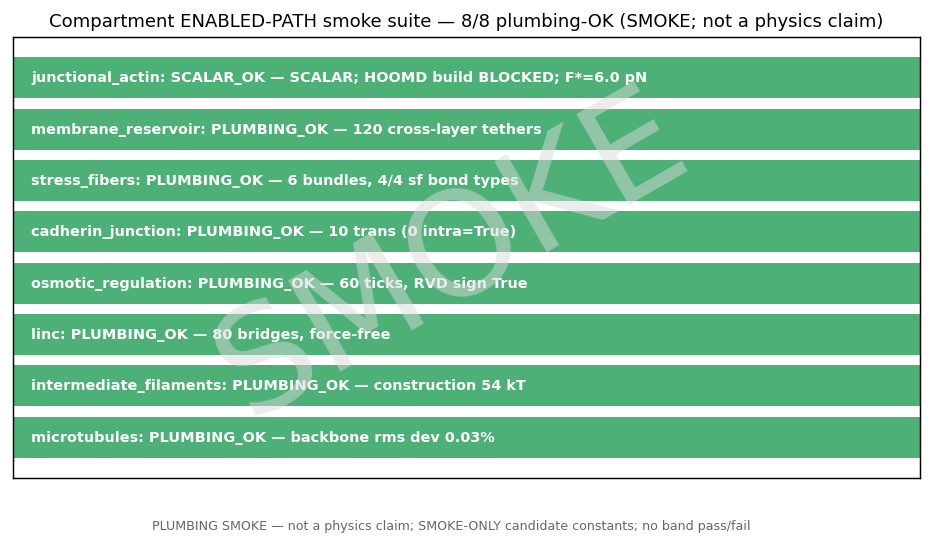
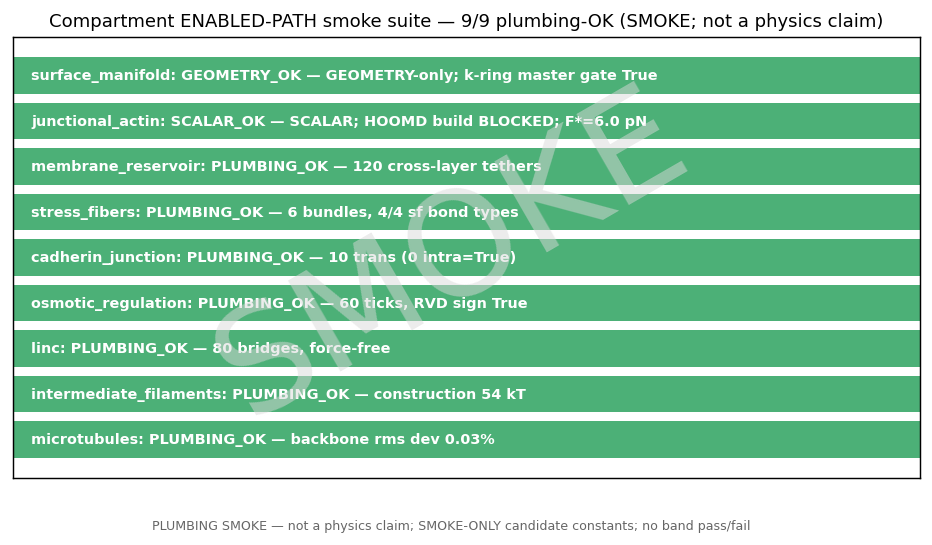
H.7 smoke: surface_manifold GEOMETRY-only grid-invariance (GEOMETRY_OK)
Geometry-only harness (NO force/bond/particle added; cross-checked vs registry geometry_only invariant) across icosphere subdivisions 0-4: (1) total area converges to 4piR^2 as O(1/n_tri) (0.24->0.001 rel err), (2) broad-phase home-patch normal aligns with the radial direction, error 17.5deg->1.15deg as the mesh refines, (3) the k-ring reach-coverage MASTER GATE holds coverage==1.0 at EVERY resolution -- the DERIVED kring_for_reach adapts (k 4->8) so the geodesic ring always covers the physical reach ball, the grid-invariance the registry requires before any manifold force is sanctioned (that force stays PI-gated/out of scope). Folded into run_all (9/9).

Changed region(s): [[0.0, 0.1248, 0.9957, 0.8422], [0.4979, 0.0312, 0.529, 0.0624]]

diff --git a/ffn_sim/scripts/compartment_smoke/surface_manifold.py b/ffn_sim/scripts/compartment_smoke/surface_manifold.py
@@ -1,0 +1,192 @@
+"""GEOMETRY-ONLY grid-invariance harness — surface manifold (PLUMBING).
+
+The surface_manifold compartment is GEOMETRY-ONLY (broad-phase + local frames +
+diagnostics): it must add ZERO force-bearing edges/particles. This harness builds
+icospheres across mesh resolutions and checks the three things that must hold
+before ANY manifold force could ever be enabled:
+
+  1. AREA CONVERGENCE — total flat-triangle area → 4πR² as the mesh refines.
+  2. BROAD-PHASE FRAME CONVERGENCE — a shell point's home-patch normal aligns
+     with its radial direction; the angular error → 0 as the mesh refines.
+  3. k-RING REACH-COVERAGE MASTER GATE — the DERIVED kring_for_reach(reach)
+     produces a geodesic ring that COVERS every triangle within `reach`
+     (coverage == 1.0) at EVERY resolution — the grid-invariance the registry
+     requires before a manifold force is sanctioned.
+
+NO force is added (geometry-only); the harness also cross-checks the registry's
+geometry-only invariant. NOT a physics claim; figures carry a SMOKE watermark.
+
+Run:  python ffn_sim/scripts/compartment_smoke/surface_manifold.py
+"""
+
+from __future__ import annotations
+
+import sys
+from pathlib import Path
+
+_HERE = Path(__file__).resolve()
+for _p in (_HERE.parents[3], _HERE.parents[0]):
+    if str(_p) not in sys.path:
+        sys.path.insert(0, str(_p))
+
+import numpy as np
+import matplotlib
+matplotlib.use("Agg")
+import matplotlib.pyplot as plt
+
+import _smoke_common as sc
+from ffn_sim.cortex.surface_manifold import SurfaceManifold
+from ffn_sim.cell.compartment_registry import REGISTRY
+
+R_CELL = 7.5e-6          # m  MCF7 (Wagner 2011)
+SUBDIVS = [0, 1, 2, 3, 4]
+REACH = 1.0e-6           # m  broad-phase candidate reach (geometry knob)
+N_TEST_PTS = 600
+N_TRI_SAMPLE = 30
+
+
+def _centroids(m: SurfaceManifold) -> np.ndarray:
+    return m.verts[m.tris].mean(axis=1)
+
+
+def run() -> dict:
+    rng = np.random.default_rng(7)
+    # Fixed random shell directions reused at every resolution (so the broad-
+    # phase convergence is measured on the SAME query set).
+    dirs = rng.normal(size=(N_TEST_PTS, 3))
+    dirs /= np.linalg.norm(dirs, axis=1, keepdims=True)
+    pts = R_CELL * dirs
+
+    sphere_area = 4.0 * np.pi * R_CELL**2
+    per_res = []
+    for s in SUBDIVS:
+        m = SurfaceManifold.icosphere(s, R_CELL)
+        area_rel_err = abs(m.total_area() - sphere_area) / sphere_area
+
+        # Broad-phase: home patch + frame normal vs the point's radial direction.
+        patch = m.nearest_patch(pts)
+        normals = np.array([m.frame(int(t))[0] for t in patch])
+        cos = np.abs(np.sum(normals * dirs, axis=1))
+        ang_err_deg = float(np.degrees(np.mean(np.arccos(np.clip(cos, -1, 1)))))
+
+        # k-ring reach-coverage master gate (grid-invariant coverage == 1.0).
+        k = int(m.kring_for_reach(REACH))
+        cents = _centroids(m)
+        sample = rng.choice(m.n_tri, size=min(N_TRI_SAMPLE, m.n_tri), replace=False)
+        coverage = []
+        for t in sample:
+            within = np.flatnonzero(
+                np.linalg.norm(cents - cents[t], axis=1) <= REACH
+            )
+            ring = set(m.patch_kring(int(t), k).tolist())
+            coverage.append(all(int(u) in ring for u in within))
+        cover_frac = float(np.mean(coverage))
+
+        per_res.append({
+            "subdivisions": s, "n_tri": m.n_tri, "n_vert": m.n_vert,
+            "area_rel_err": float(area_rel_err),
+            "normal_align_err_deg": ang_err_deg,
+            "kring_k": k, "kring_coverage": cover_frac,
+        })
+
+    area_errs = [r["area_rel_err"] for r in per_res]
+    ang_errs = [r["normal_align_err_deg"] for r in per_res]
+    coverages = [r["kring_coverage"] for r in per_res]
+
+    # ---- grid-invariance asserts ----
+    area_converges = area_errs[-1] < area_errs[0] and all(
+        area_errs[i + 1] <= area_errs[i] + 1e-12 for i in range(len(area_errs) - 1)
+    )
+    frame_converges = ang_errs[-1] < ang_errs[0]
+    master_gate = all(c == 1.0 for c in coverages)   # coverage at EVERY resolution
+
+    # geometry-only invariant (registry): zero bonds/particles, geometry_only.
+    spec = REGISTRY.get("surface_manifold")
+    REGISTRY.validate_manifold_geometry_only()
+    geometry_only = bool(
+        spec.geometry_only
+        and spec.performance_contract.n_bonds in (0, "0")
+        and not spec.performance_contract.particle_types_added
+    )
+
+    ok = area_converges and frame_converges and master_gate and geometry_only
+    result = {
+        "compartment": "surface_manifold",
+        "verdict": "GEOMETRY_OK" if ok else "GEOMETRY_FAIL",
+        "physics_claim": False,
+        "params": {"R_cell_m": R_CELL, "reach_m": REACH,
+                   "sphere_area_m2": sphere_area, "subdivisions": SUBDIVS},
+        "per_resolution": per_res,
+        "checks": {
+            "area_converges_to_4piR2": bool(area_converges),
+            "broad_phase_frame_converges": bool(frame_converges),
+            "kring_reach_coverage_master_gate": bool(master_gate),
+            "geometry_only_invariant": geometry_only,
+        },
+        "note": (
+            "GEOMETRY-ONLY grid-invariance harness — NO force/bond/particle "
+            "added (cross-checked vs registry geometry_only). The k-ring "
+            "reach-coverage master gate (coverage==1.0 at every resolution) is "
+            "the grid-invariance the registry requires before any manifold force "
+            "could be sanctioned (that force itself stays PI-gated / out of scope)."
+        ),
+    }
+
+    _figure(per_res, sphere_area, result)
+    return result
+
+
+def _figure(per_res, sphere_area, result) -> None:
+    fig, (ax0, ax1, ax2) = plt.subplots(1, 3, figsize=(13.5, 4.2))
+    n_tri = [r["n_tri"] for r in per_res]
+
+    ax0.loglog(n_tri, [r["area_rel_err"] for r in per_res], "-o", color="#1f78b4")
+    ax0.set_xlabel("n_tri")
+    ax0.set_ylabel("|area − 4πR²| / 4πR²")
+    ax0.set_title("Area convergence → sphere")
+    ax0.grid(True, which="both", alpha=0.3)
+
+    ax1.semilogx(n_tri, [r["normal_align_err_deg"] for r in per_res], "-o",
+                 color="#33a02c")
+    ax1.set_xlabel("n_tri")
+    ax1.set_ylabel("mean home-patch normal error [deg]")
+    ax1.set_title("Broad-phase frame convergence")
+    ax1.grid(True, which="both", alpha=0.3)
+
+    ax2.semilogx(n_tri, [r["kring_coverage"] for r in per_res], "-o",
+                 color="#e31a1c")
+    ax2.axhline(1.0, color="0.5", ls="--", lw=1, label="full coverage")
+    ax2.set_xlabel("n_tri")
+    ax2.set_ylabel("k-ring reach coverage")
+    ax2.set_ylim(0.0, 1.05)
+    ax2.set_title(f"Master gate (reach={result['params']['reach_m']*1e6:.1f}µm)")
+    ax2.legend(fontsize=8)
+
+    fig.suptitle(
+        f"surface_manifold GEOMETRY-ONLY grid-invariance — {result['verdict']} "
+        f"(no force added; SMOKE)", fontsize=11
+    )
+    sc.save_fig(fig, "smoke_surface_manifold")
+    plt.close(fig)
+
+
+def main() -> int:
+    res = run()
+    path = sc.save_json("smoke_surface_manifold", res)
+    c = res["checks"]
+    print(f"[surface_manifold geometry] {res['verdict']}  "
+          f"area→4πR²={c['area_converges_to_4piR2']}, "
+          f"frame-conv={c['broad_phase_frame_converges']}, "
+          f"k-ring master gate={c['kring_reach_coverage_master_gate']}, "
+          f"geometry-only={c['geometry_only_invariant']}")
+    for r in res["per_resolution"]:
+        print(f"    sub={r['subdivisions']} n_tri={r['n_tri']:5d}  "
+              f"area_err={r['area_rel_err']:.2e}  "
+              f"normal_err={r['normal_align_err_deg']:5.2f}°  "
+              f"k={r['kring_k']} cover={r['kring_coverage']:.2f}")
+    print(f"  json: {path}")
+    return 0 if res["verdict"] == "GEOMETRY_OK" else 1
+
+
+if __name__ == "__main__":
+    raise SystemExit(main())

diff --git a/ffn_sim/scripts/compartment_smoke/run_all.py b/ffn_sim/scripts/compartment_smoke/run_all.py
@@ -35,9 +35,10 @@ HARNESSES = [
     ("stress_fibers", lambda r: f"{r['params']['n_SF']} bundles, 4/4 sf bond types"),
     ("membrane_reservoir", lambda r: f"{r['topology']['n_tethers']} cross-layer tethers"),
     ("junctional_actin", lambda r: f"SCALAR; HOOMD build BLOCKED; F*={r['scalar_laws']['F_star_numeric_pN']:.1f} pN"),
+    ("surface_manifold", lambda r: f"GEOMETRY-only; k-ring master gate {r['checks']['kring_reach_coverage_master_gate']}"),
 ]
 
-_OK_VERDICTS = {"PLUMBING_OK", "SCALAR_OK"}
+_OK_VERDICTS = {"PLUMBING_OK", "SCALAR_OK", "GEOMETRY_OK"}
 
 
 def main() -> int:

diff --git a/ffn_sim/docs/v2_audit/PLATFORM_AUTORUN_LOG_2026-06-09.md b/ffn_sim/docs/v2_audit/PLATFORM_AUTORUN_LOG_2026-06-09.md
@@ -25,3 +25,5 @@ candidate values, labelled SMOKE-ONLY. Shared/PI-gated work → PLATFORM_PI_QUEU
 | 03:45 | smoke#8 junctional_actin: STUB — HOOMD build raises NotImplementedError even anchored → SCALAR-only smoke (catch-slip F*=6.02 pN ≈ analytic 6.05, engaged f=0.907, tensile-only coupling) + ASSERTED build barrier. SMOKE-ONLY catch set | (this commit) | SCALAR_OK |
 | 03:45 | PLATFORM_PI_QUEUE.md created: activation blockers requiring shared-file/PI/gate-contract changes (γ-denylist ext, sf_myosin_ prefix, 5-pt wiring, None-gated params, STUB build paths, 2-cell doublet) — all SKIPPED per ownership | (this commit) | QUEUE |
 | 03:45 | ⭐ALL 8 compartment ENABLED-PATH smokes DONE (6 full HOOMD step + 1 static + 1 scalar) + 1 crash-on-enable bug fixed (cadherin image). Backlog #1+#2 complete | — | DONE |
+| 03:55 | smoke aggregator run_all.py + README (one entry point, summary JSON + montage); 8/8 plumbing-OK | b0c8c22 | DONE |
+| 04:10 | backlog#3 surface_manifold GEOMETRY-only grid-invariance: area→4πR² (O(1/n_tri)), broad-phase frame conv (17.5°→1.15°), ⭐k-ring reach-coverage MASTER GATE coverage=1.0 at ALL 5 resolutions (k adapts 4→8), geometry-only invariant ✓. NO force added | (this commit) | GEOMETRY_OK |
